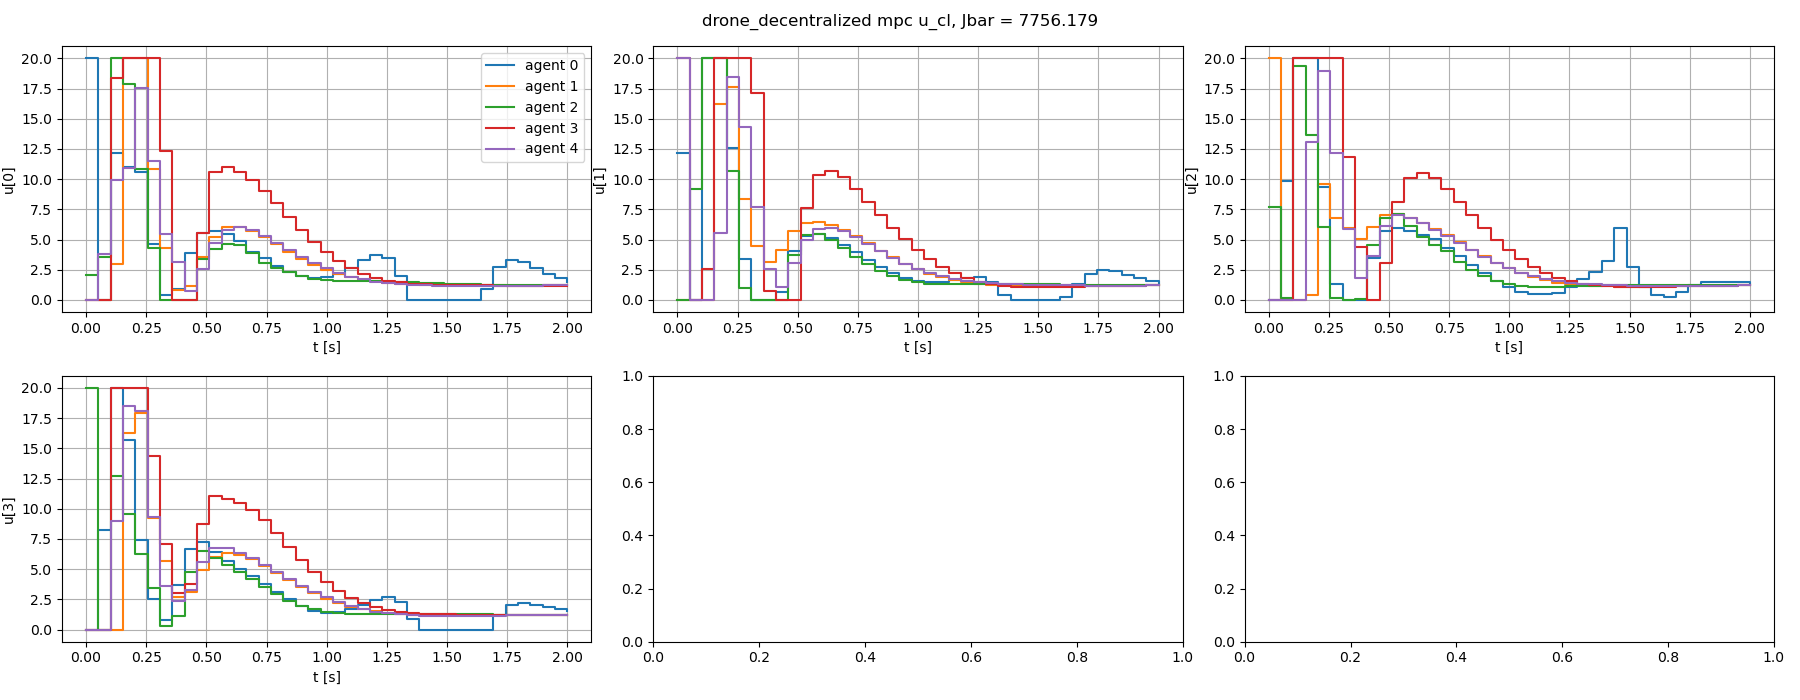
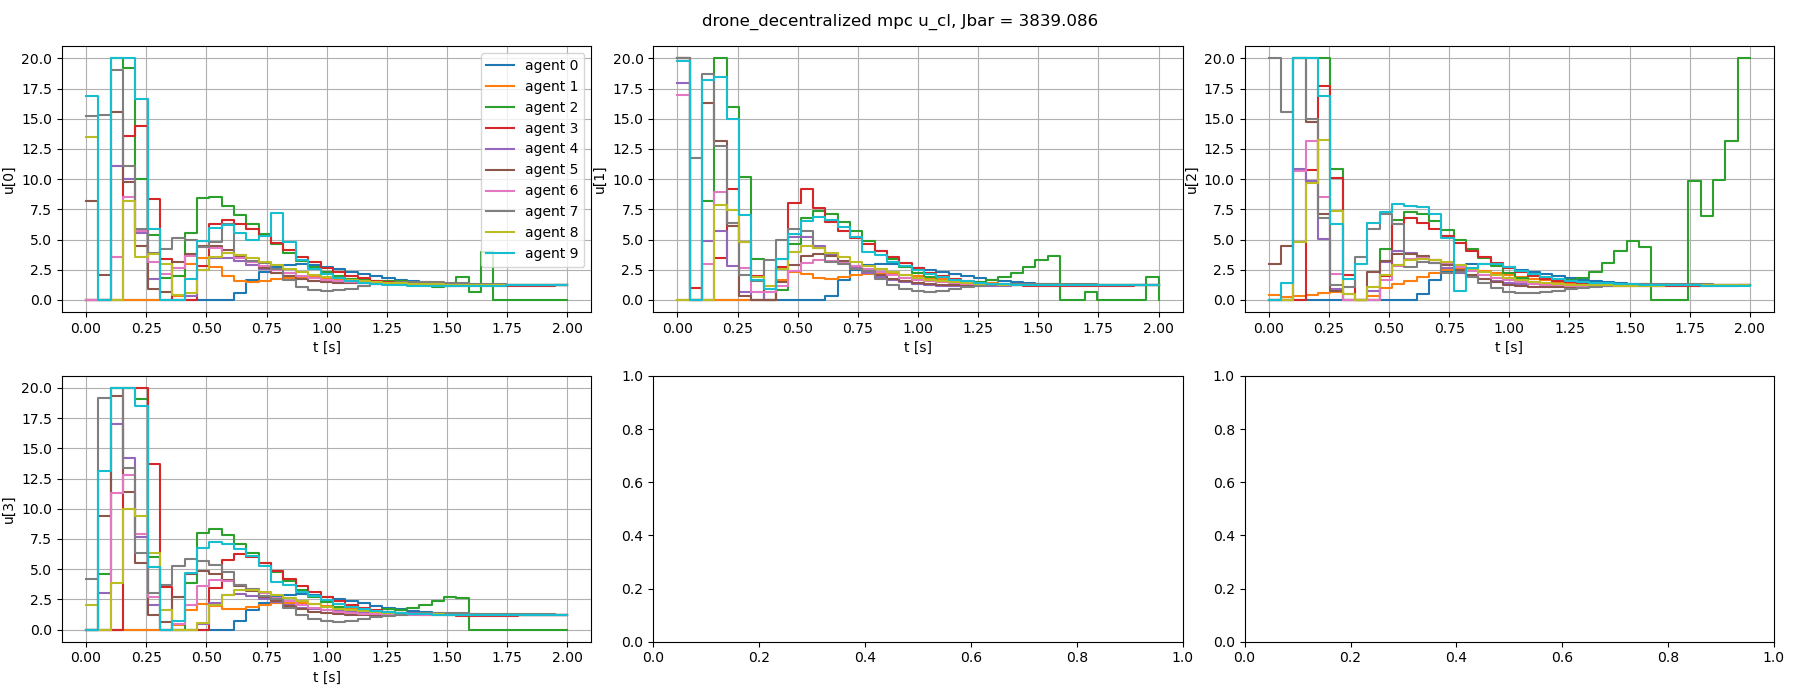
re-run drone dynamics

diff --git a/drone_dyn.py b/drone_dyn.py
@@ -62,7 +62,7 @@ def eul2rotm_zyx(yaw, pitch, roll):
 # =========================================================================
 
 # number of agents
-M = 5
+M = 10
 
 # minimum separation distance
 d_min = 0.2
